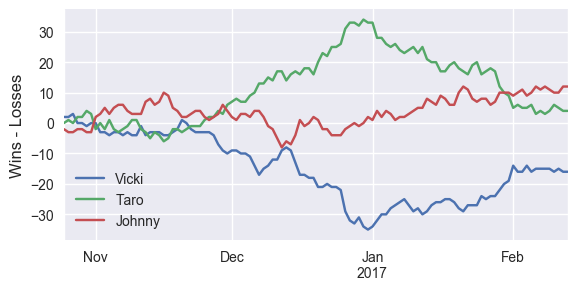
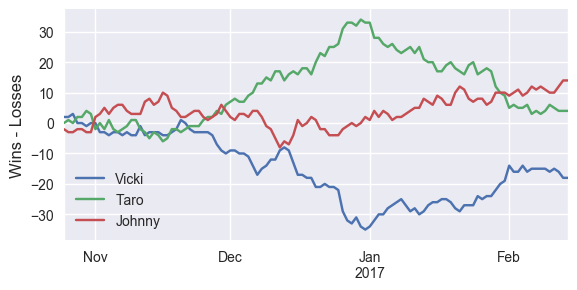
update 2/14

diff --git a/index.html b/index.html
@@ -35,7 +35,7 @@
 <a id="the-bet-is-on" class="anchor" href="#the-bet-is-on" aria-hidden="true"><span aria-hidden="true" class="octicon octicon-link"></span></a>The bet is on.</h1>
 
 <h1>
-<a id="current-winner-of-2016-17-season" class="anchor" href="#current-winner-of-2016-17-season" aria-hidden="true"><span aria-hidden="true" class="octicon octicon-link"></span></a>Current winner of 2016-17 Season (as of 2/13/2017):</h1>
+<a id="current-winner-of-2016-17-season" class="anchor" href="#current-winner-of-2016-17-season" aria-hidden="true"><span aria-hidden="true" class="octicon octicon-link"></span></a>Current winner of 2016-17 Season (as of 2/14/2017):</h1>
 
 <h2>
 <a id="none" class="anchor" href="#none" aria-hidden="true"><span aria-hidden="true" class="octicon octicon-link"></span></a><strong>Johnny</strong>
@@ -44,23 +44,23 @@
 <h2>
 <a id="johnny" class="anchor" href="Johnny.html" aria-hidden="true"><span aria-hidden="true" class="octicon octicon-link"></span>Johnny</a></h2>
 
-<p>Wins: 279<br>
-Losses: 267<br>
-Remaining wins available: 238</p>
+<p>Wins: 284<br>
+Losses: 270<br>
+Remaining wins available: 232</p>
 
 <h2>
 <a id="taro" class="anchor" href="Taro.html" aria-hidden="true"><span aria-hidden="true" class="octicon octicon-link"></span>Taro</a></h2>
 
-<p>Wins: 276<br>
-Losses: 272<br>
-Remaining wins available: 235</p>
+<p>Wins: 279<br>
+Losses: 275<br>
+Remaining wins available: 230</p>
 
 <h2>
 <a id="vicki" class="anchor" href="Vicki.html" aria-hidden="true"><span aria-hidden="true" class="octicon octicon-link"></span>Vicki</a></h2>
 
-<p>Wins: 264<br>
-Losses: 280<br>
-Remaining wins available: 237</p>
+<p>Wins: 267<br>
+Losses: 285<br>
+Remaining wins available: 229</p>
 
 <img src='pythoncode/win_percent.png' alt='Winning Percentage Over Time'>
 <h1>

diff --git a/Johnny.html b/Johnny.html
@@ -35,9 +35,9 @@
 
 <h2>Johnny</h2>
 
-<p>Wins: 279<br>
-Losses: 267<br>
-Remaining wins available: 238</p>
+<p>Wins: 284<br>
+Losses: 270<br>
+Remaining wins available: 232</p>
 
 <h2> Current teams </h2>
 <table border="1">
@@ -49,15 +49,15 @@ Remaining wins available: 238</p>
 </tr>
 <tr>
 <td>Bucks</td>
-<td>23</td>
+<td>24</td>
 <td>30</td>
-<td>29</td>
+<td>28</td>
 </tr>
 <tr>
 <td>Warriors</td>
 <td>46</td>
-<td>8</td>
-<td>28</td>
+<td>9</td>
+<td>27</td>
 </tr>
 <tr>
 <td>Timberwolves</td>
@@ -67,33 +67,33 @@ Remaining wins available: 238</p>
 </tr>
 <tr>
 <td>Hawks</td>
-<td>31</td>
+<td>32</td>
 <td>23</td>
-<td>28</td>
+<td>27</td>
 </tr>
 <tr>
 <td>Celtics</td>
-<td>35</td>
+<td>36</td>
 <td>19</td>
-<td>28</td>
+<td>27</td>
 </tr>
 <tr>
 <td>Pistons</td>
 <td>26</td>
-<td>29</td>
-<td>27</td>
+<td>30</td>
+<td>26</td>
 </tr>
 <tr>
 <td>Nuggets</td>
-<td>24</td>
+<td>25</td>
 <td>30</td>
-<td>28</td>
+<td>27</td>
 </tr>
 <tr>
 <td>Jazz</td>
 <td>34</td>
-<td>21</td>
-<td>27</td>
+<td>22</td>
+<td>26</td>
 </tr>
 <tr>
 <td>Lakers</td>
@@ -103,9 +103,9 @@ Remaining wins available: 238</p>
 </tr>
 <tr>
 <td>Magic</td>
-<td>20</td>
+<td>21</td>
 <td>36</td>
-<td>26</td>
+<td>25</td>
 </tr>
 </table>
 

diff --git a/Vicki.html b/Vicki.html
@@ -35,9 +35,9 @@
 
 <h2>Vicki</h2>
 
-<p>Wins: 264<br>
-Losses: 280<br>
-Remaining wins available: 237</p>
+<p>Wins: 267<br>
+Losses: 285<br>
+Remaining wins available: 229</p>
 
 <h2> Current teams </h2>
 <table border="1">
@@ -50,20 +50,20 @@ Remaining wins available: 237</p>
 <tr>
 <td>Heat</td>
 <td>24</td>
-<td>31</td>
-<td>27</td>
+<td>32</td>
+<td>26</td>
 </tr>
 <tr>
 <td>Mavericks</td>
 <td>22</td>
-<td>32</td>
-<td>28</td>
+<td>33</td>
+<td>27</td>
 </tr>
 <tr>
 <td>Trail Blazers</td>
 <td>23</td>
-<td>31</td>
-<td>28</td>
+<td>32</td>
+<td>27</td>
 </tr>
 <tr>
 <td>Cavaliers</td>
@@ -79,33 +79,33 @@ Remaining wins available: 237</p>
 </tr>
 <tr>
 <td>76ers</td>
-<td>20</td>
+<td>21</td>
 <td>34</td>
-<td>28</td>
+<td>27</td>
 </tr>
 <tr>
 <td>Grizzlies</td>
-<td>33</td>
+<td>34</td>
 <td>23</td>
-<td>26</td>
+<td>25</td>
 </tr>
 <tr>
 <td>Clippers</td>
-<td>33</td>
+<td>34</td>
 <td>21</td>
-<td>28</td>
+<td>27</td>
 </tr>
 <tr>
 <td>Suns</td>
 <td>17</td>
-<td>38</td>
-<td>27</td>
+<td>39</td>
+<td>26</td>
 </tr>
 <tr>
 <td>Pacers</td>
 <td>29</td>
-<td>25</td>
-<td>28</td>
+<td>26</td>
+<td>27</td>
 </tr>
 </table>
 

diff --git a/Taro.html b/Taro.html
@@ -35,9 +35,9 @@
 
 <h2>Taro</h2>
 
-<p>Wins: 276<br>
-Losses: 272<br>
-Remaining wins available: 235</p>
+<p>Wins: 279<br>
+Losses: 275<br>
+Remaining wins available: 230</p>
 
 <h2> Current teams </h2>
 <table border="1">
@@ -56,14 +56,14 @@ Remaining wins available: 235</p>
 <tr>
 <td>Nets</td>
 <td>9</td>
-<td>45</td>
-<td>28</td>
+<td>46</td>
+<td>27</td>
 </tr>
 <tr>
 <td>Thunder</td>
 <td>31</td>
-<td>24</td>
-<td>27</td>
+<td>25</td>
+<td>26</td>
 </tr>
 <tr>
 <td>Raptors</td>
@@ -73,15 +73,15 @@ Remaining wins available: 235</p>
 </tr>
 <tr>
 <td>Spurs</td>
-<td>41</td>
+<td>42</td>
 <td>13</td>
-<td>28</td>
+<td>27</td>
 </tr>
 <tr>
 <td>Hornets</td>
 <td>24</td>
-<td>30</td>
-<td>28</td>
+<td>31</td>
+<td>27</td>
 </tr>
 <tr>
 <td>Rockets</td>
@@ -91,9 +91,9 @@ Remaining wins available: 235</p>
 </tr>
 <tr>
 <td>Wizards</td>
-<td>32</td>
+<td>33</td>
 <td>21</td>
-<td>29</td>
+<td>28</td>
 </tr>
 <tr>
 <td>Kings</td>
@@ -103,9 +103,9 @@ Remaining wins available: 235</p>
 </tr>
 <tr>
 <td>Pelicans</td>
-<td>21</td>
+<td>22</td>
 <td>34</td>
-<td>27</td>
+<td>26</td>
 </tr>
 </table>
 
